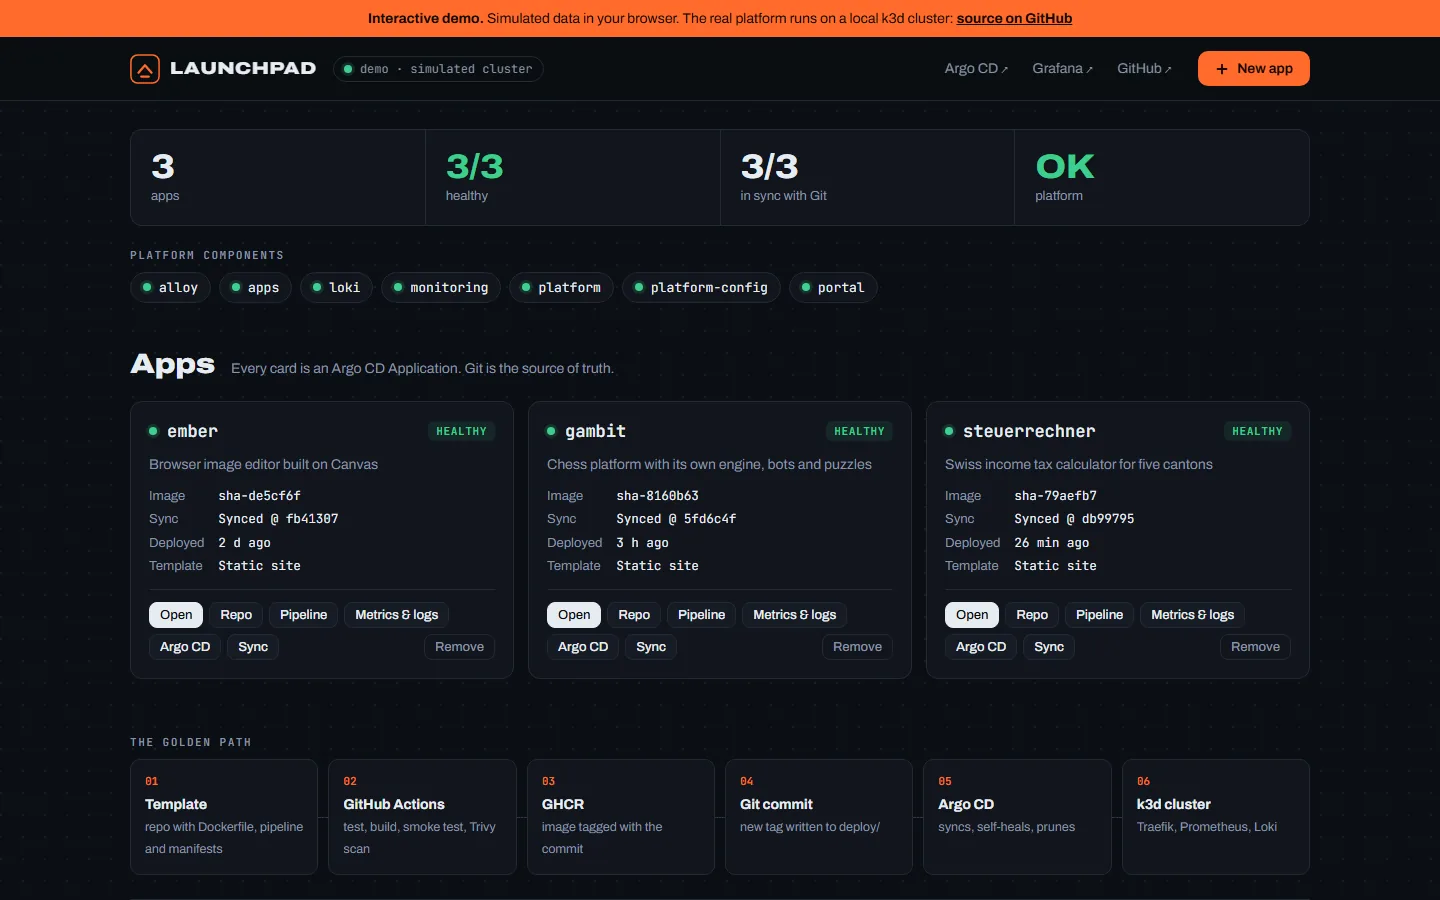
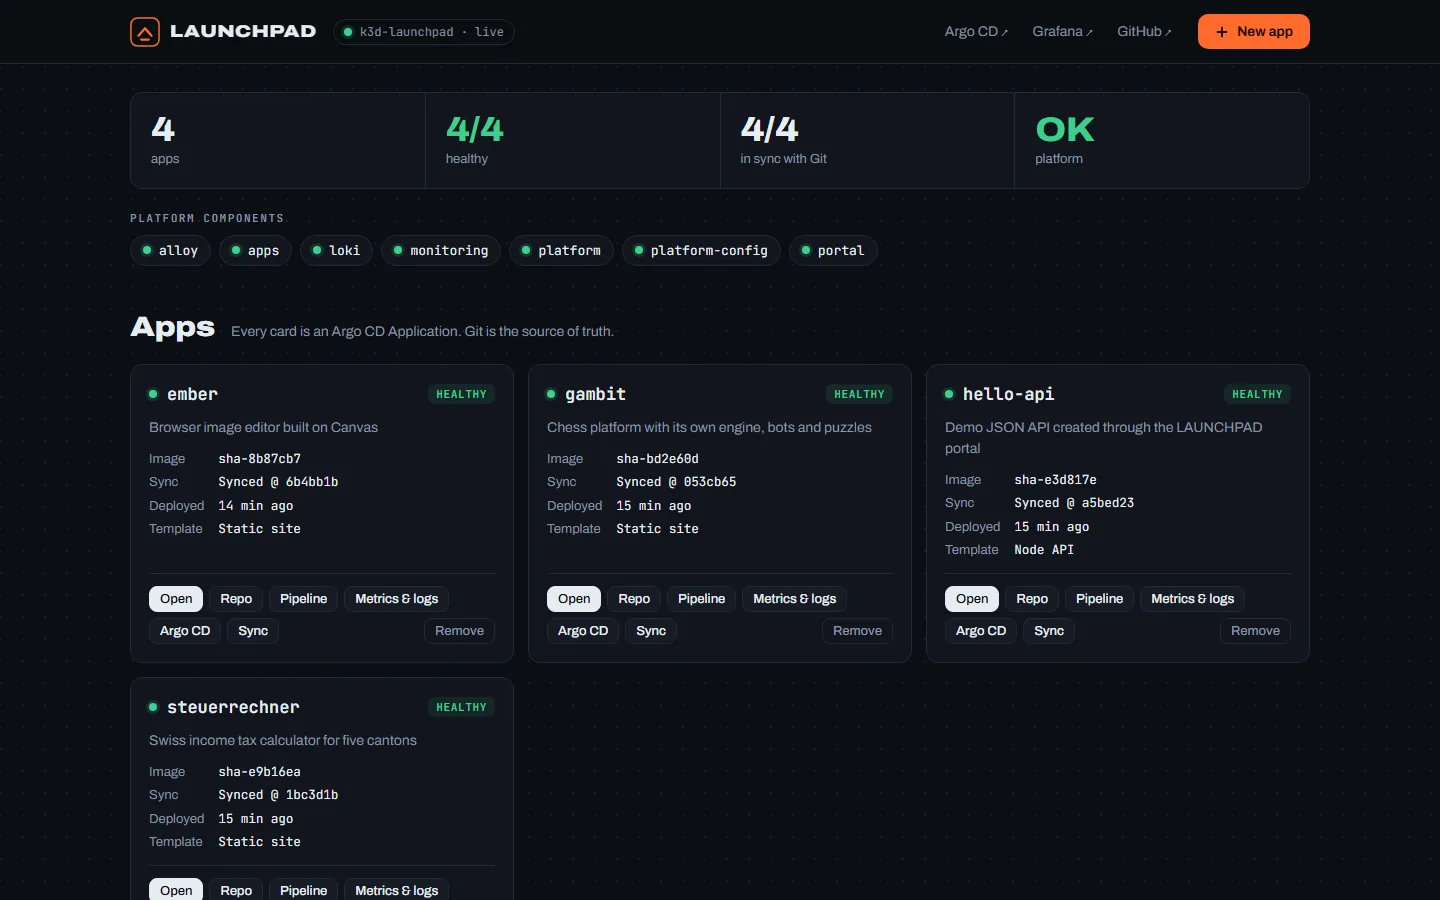
LAUNCHPAD-Karte: Screenshot vom echten Cluster

diff --git a/projekte.html b/projekte.html
@@ -53,9 +53,9 @@
       </p>
       <ul class="ccards">
         <li class="ccard ccard--wide">
-          <button class="ccard__shot" type="button" data-shot="assets/launchpad.webp" data-title="LAUNCHPAD"
-                  data-alt="Screenshot des LAUNCHPAD-Portals: dunkles Dashboard mit Kennzahlen, Plattform-Komponenten und Karten für die Apps Ember, GAMBIT und Steuerrechner, alle gesund und synchron mit Git">
-            <img src="assets/launchpad.webp" alt="" loading="lazy" />
+          <button class="ccard__shot" type="button" data-shot="assets/launchpad.webp?v=2" data-title="LAUNCHPAD"
+                  data-alt="Screenshot des LAUNCHPAD-Portals: dunkles Dashboard mit Kennzahlen, Plattform-Komponenten und Karten für die Apps Ember, GAMBIT, hello-api und Steuerrechner, alle gesund und synchron mit Git, aufgenommen vom echten Cluster">
+            <img src="assets/launchpad.webp?v=2" alt="" loading="lazy" />
           </button>
           <div class="ccard__main">
             <div class="ccard__head">
